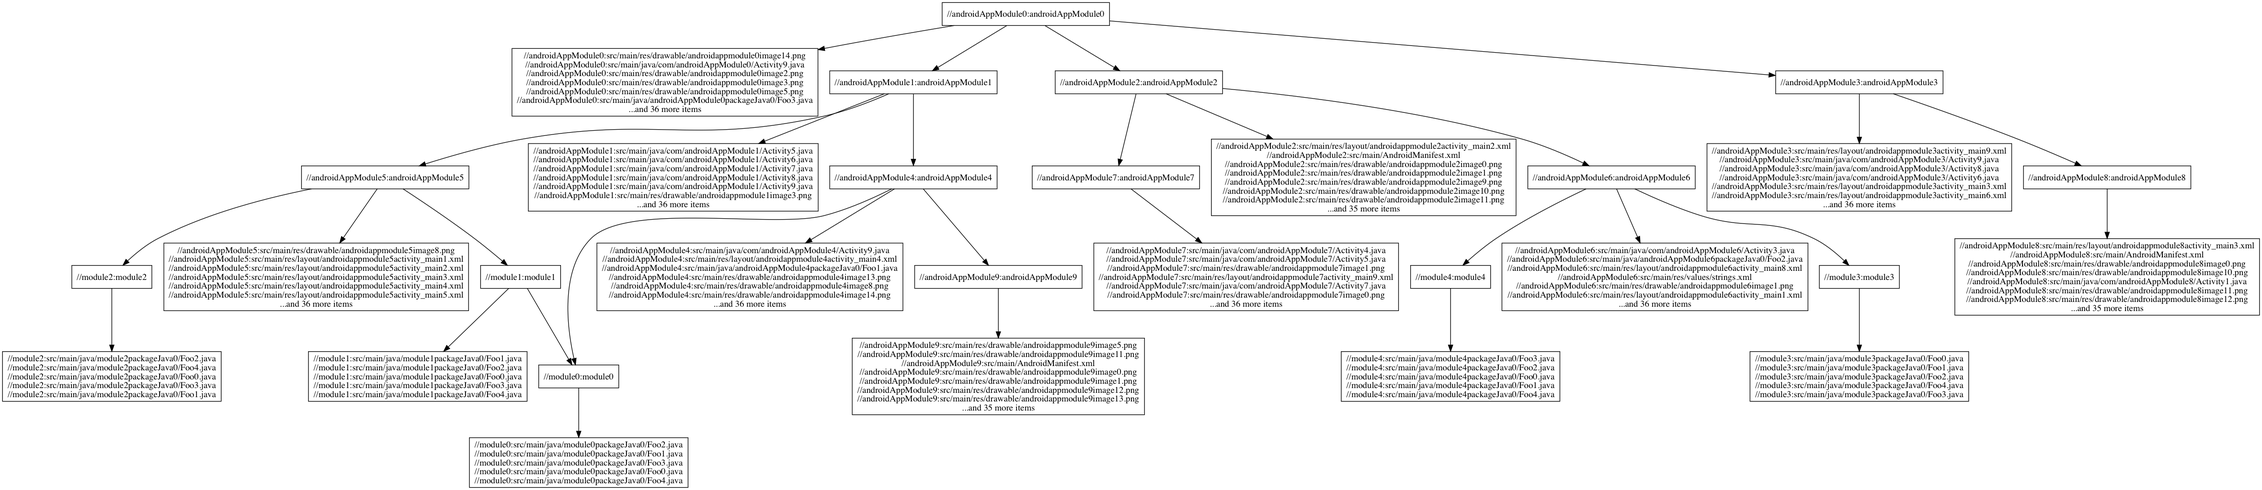
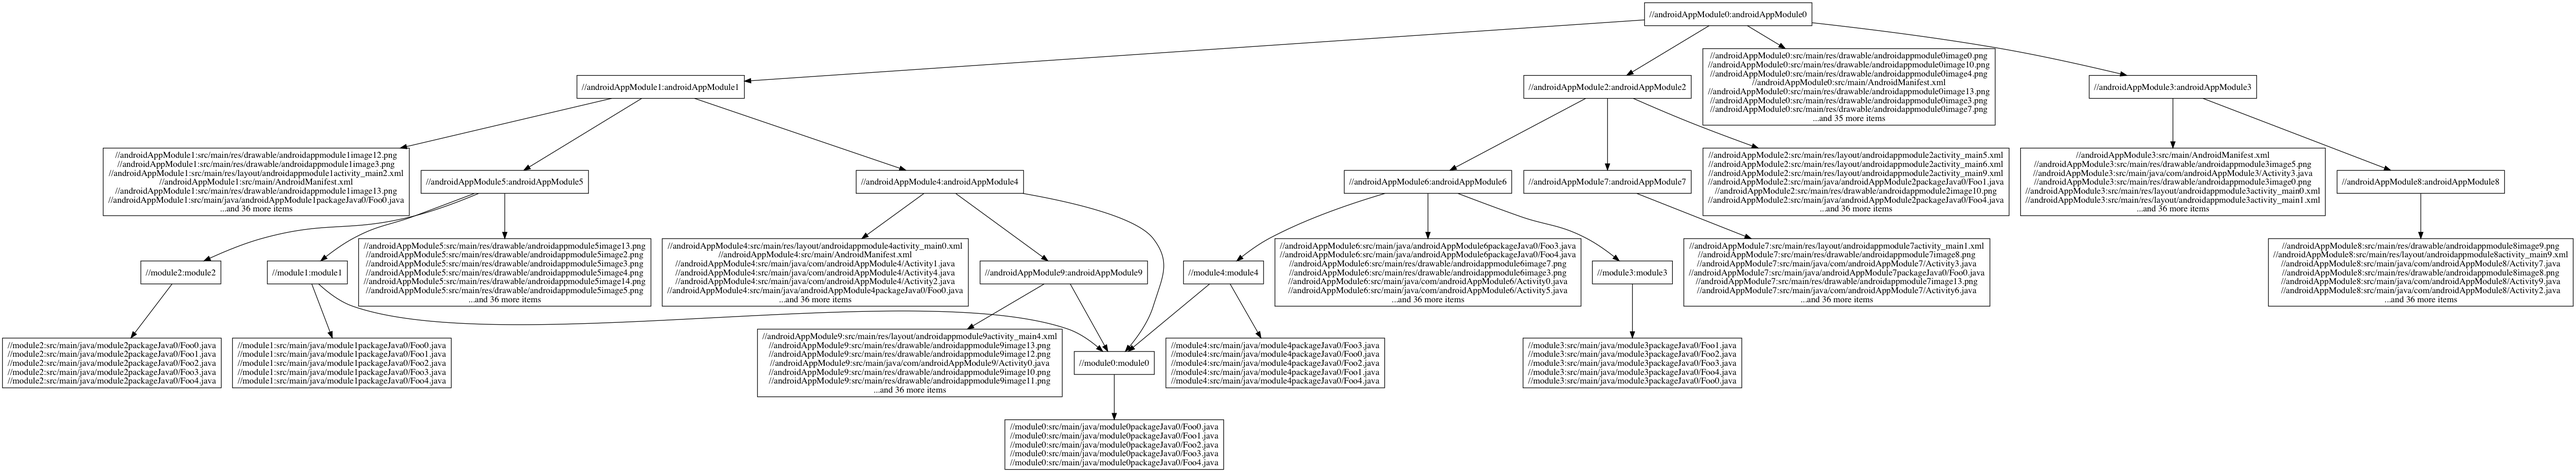
Update variable_tree

diff --git a/variable_tree/androidAppModule9/src/main/java/androidAppModule9packageJava0/Foo0.java b/variable_tree/androidAppModule9/src/main/java/androidAppModule9packageJava0/Foo0.java
@@ -3,6 +3,7 @@ package androidAppModule9packageJava0;
 public class Foo0 {
   public void foo0() {
     final Runnable anything = () -> System.out.println("anything");
+    new module0packageJava0.Foo4().foo3();
   }
 
   public void foo1() {

diff --git a/variable_tree/module4/src/main/java/module4packageJava0/Foo0.java b/variable_tree/module4/src/main/java/module4packageJava0/Foo0.java
@@ -3,6 +3,7 @@ package module4packageJava0;
 public class Foo0 {
   public void foo0() {
     final Runnable anything = () -> System.out.println("anything");
+    new module0packageJava0.Foo4().foo3();
   }
 
   public void foo1() {
